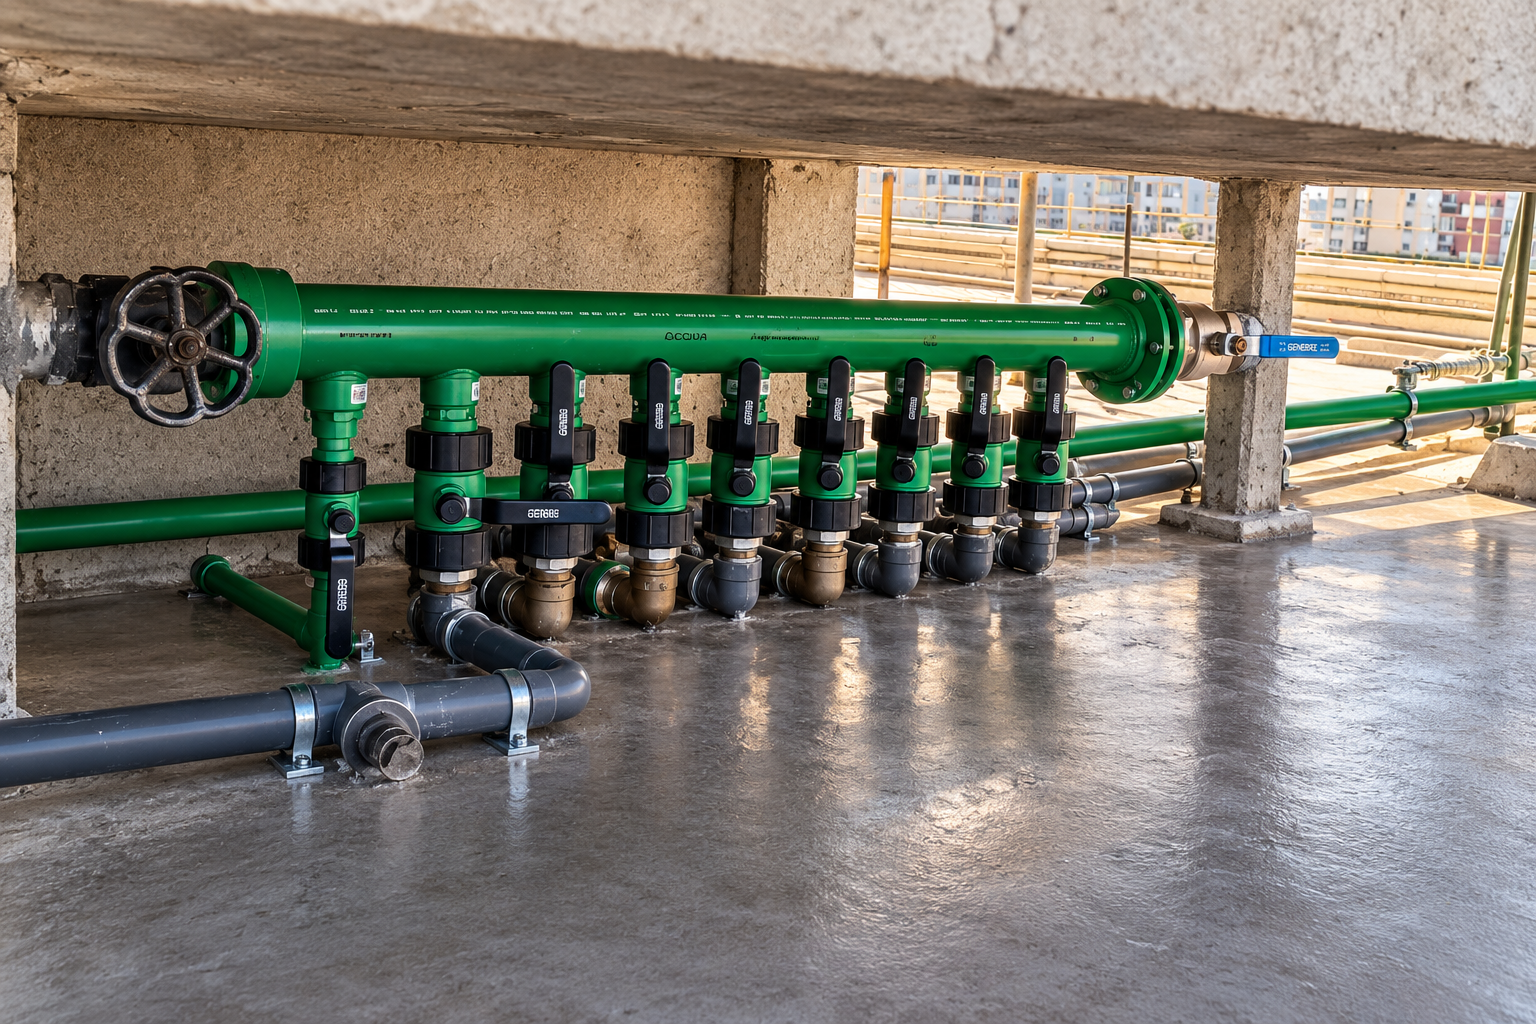
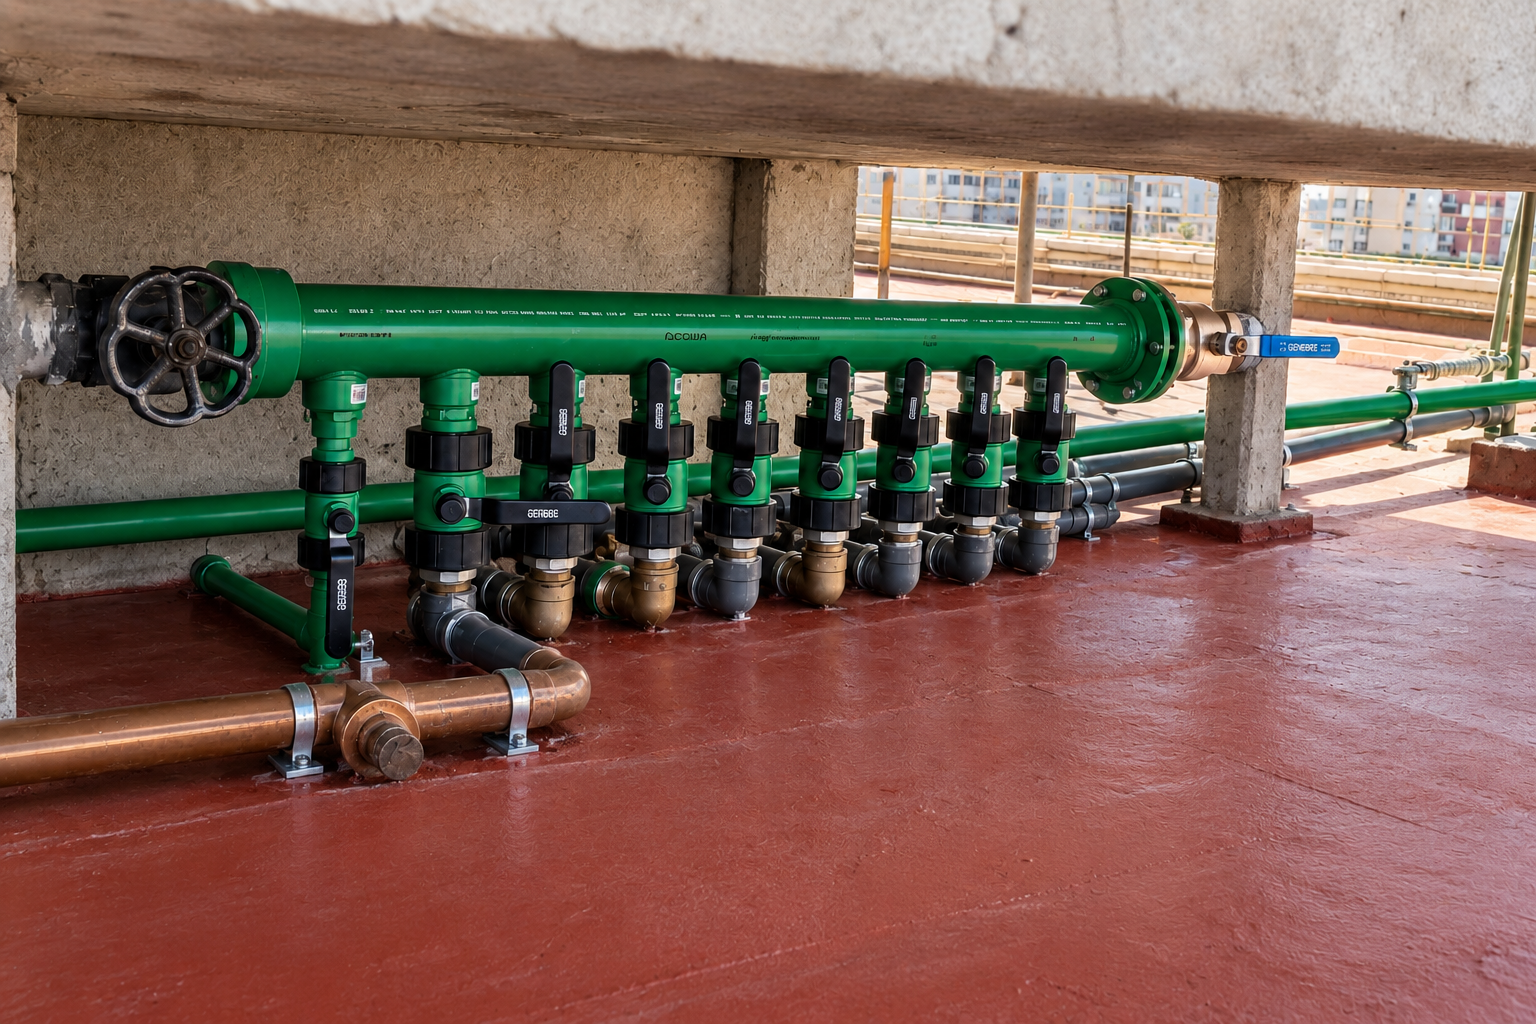
Actualiza contenido e imagenes de Plumber Servicios

diff --git a/index.html b/index.html
@@ -9,7 +9,7 @@
 
     <meta
         name="description"
-        content="Servicios de plomería y gas en CABA para hogares, comercios, administraciones y consorcios. Gasista matriculado. Urgencias 24 hs."
+        content="Servicios de plomería y gas en CABA para hogares, comercios y consorcios. Gasista matriculado. Urgencias 24 hs."
     >
 
     <link rel="stylesheet" href="styles.css">
@@ -182,7 +182,7 @@
 
                     <p>
                         Servicios de plomería y gas para hogares,
-                        comercios, administraciones y consorcios.
+                        comercios y consorcios.
                     </p>
 
                 </div>
@@ -299,7 +299,7 @@
 
                         <p>
                             Instalación, reemplazo y reparación de
-                            calefones, termotanques y conexiones.
+                            calefones, termotanques y estufas
                         </p>
 
                     </article>
@@ -379,7 +379,7 @@
 
                 <h2>
                     Soluciones para
-                    <span>administraciones y consorcios</span>
+                    <span>consorcios</span>
                 </h2>
 
                 <p class="consorcios-description">
